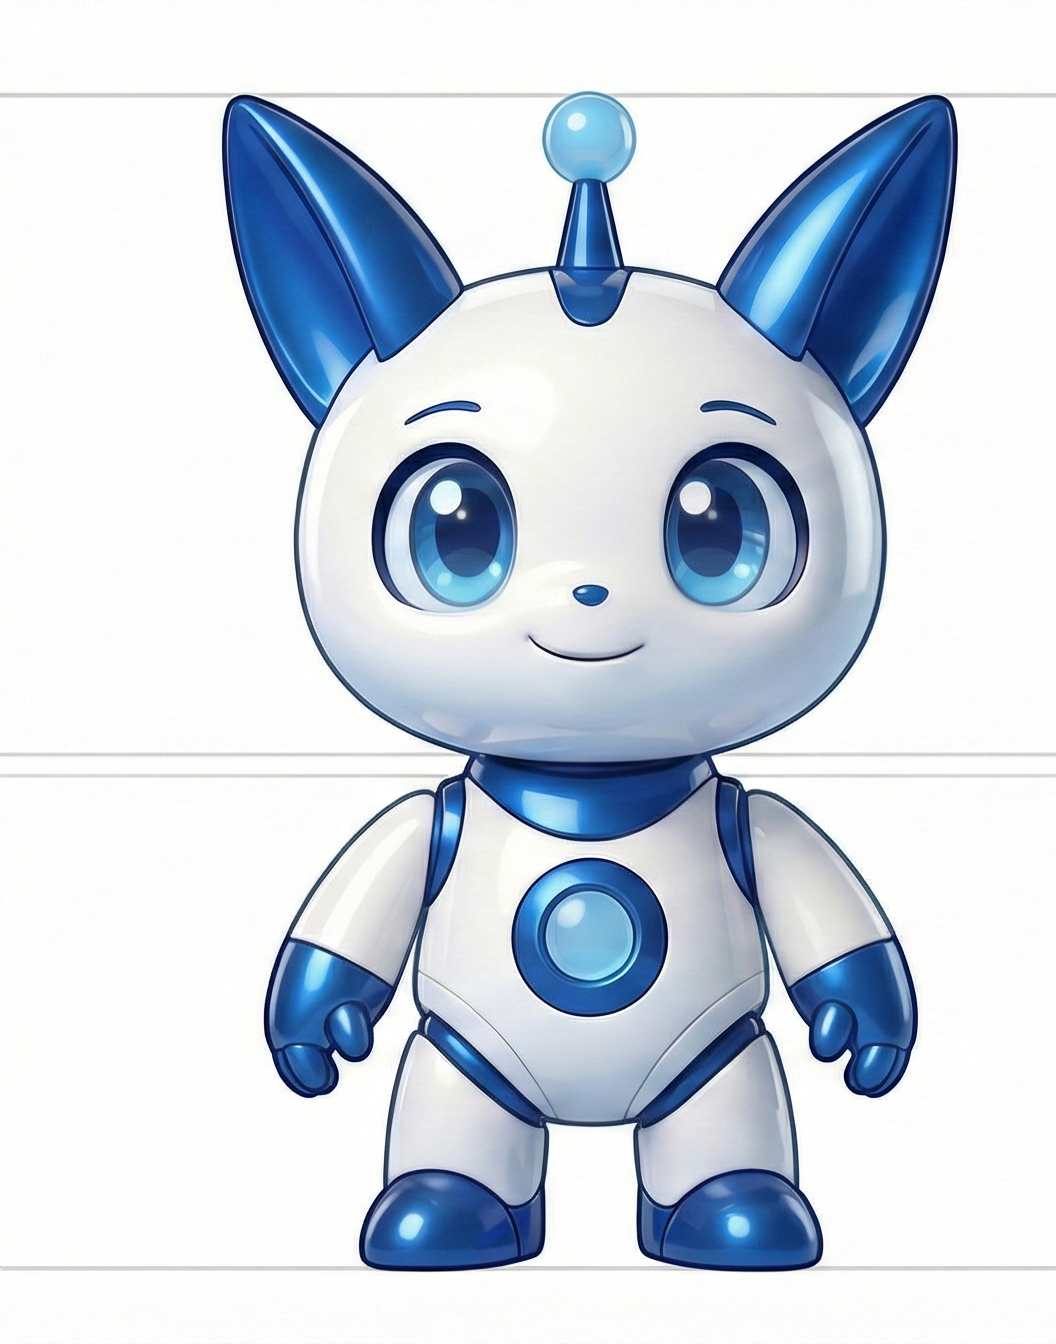
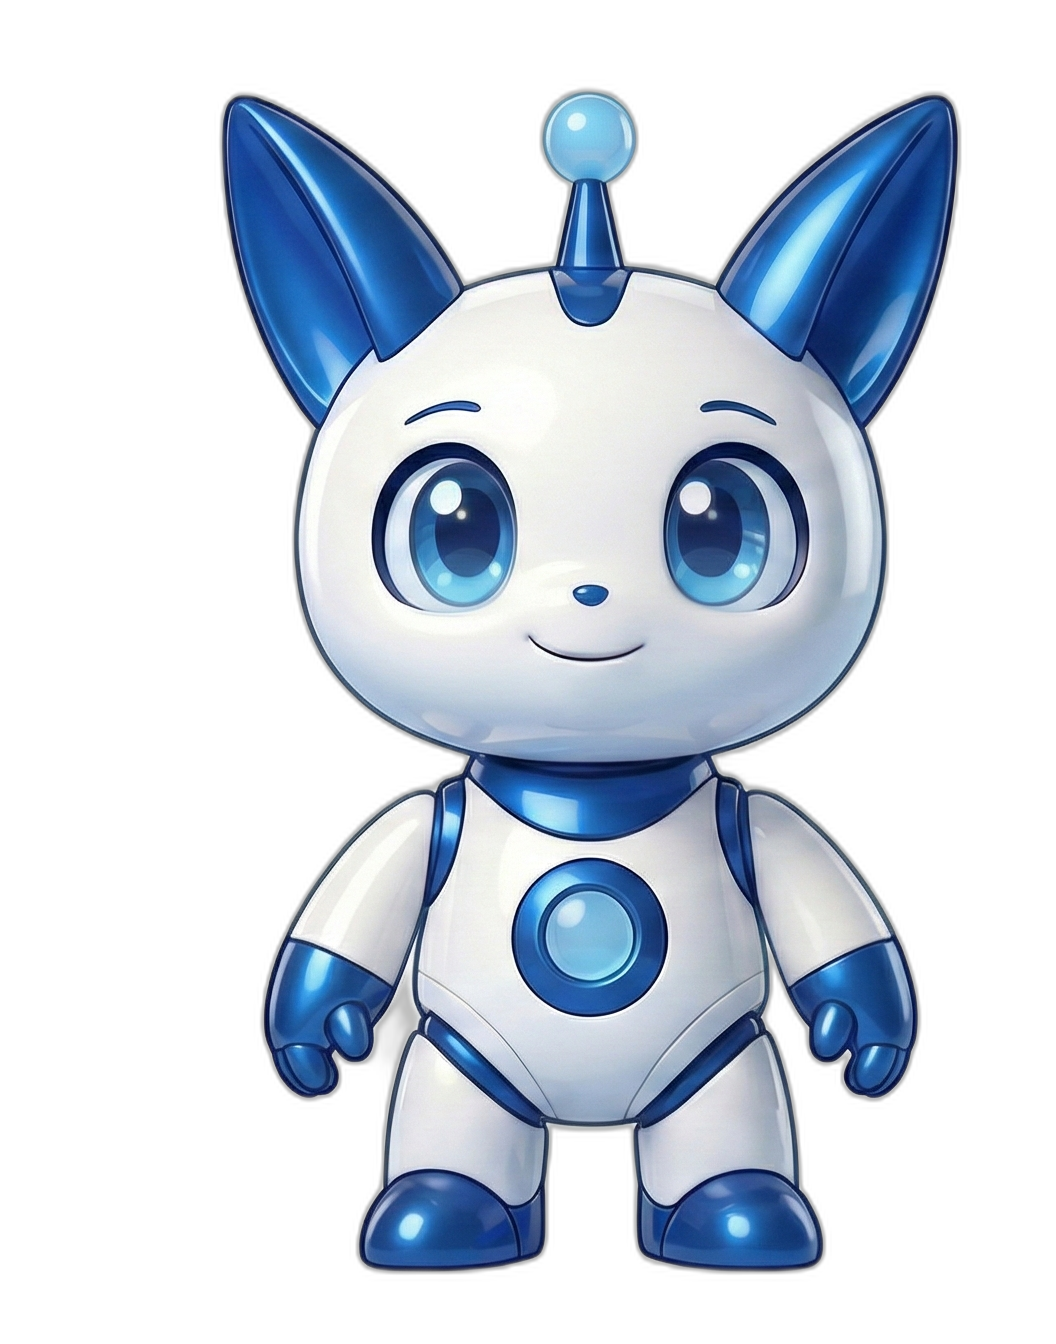
fix: 琥珀キャラ背景透過（rembg）+ 白ラッパー削除 + cyan glow直接適用

diff --git a/sites/openclaw-lp/index.html b/sites/openclaw-lp/index.html
@@ -207,27 +207,13 @@
       0%,100% { transform: translateY(0); }
       50%      { transform: translateY(-18px); }
     }
-    .hero-kohaku-wrap {
+    .hero-kohaku {
       position: relative;
       z-index: 2;
-      width: 300px;
-      height: 300px;
-      border-radius: 50%;
-      overflow: hidden;
-      background: radial-gradient(circle at 50% 45%, #eef4ff 0%, #ddeaff 100%);
-      box-shadow:
-        0 0 0 2px rgba(0,212,255,0.25),
-        0 0 40px rgba(0,150,255,0.45),
-        0 0 100px rgba(0,100,220,0.2);
-      display: flex;
-      align-items: center;
-      justify-content: center;
+      width: 360px;
+      height: auto;
+      filter: drop-shadow(0 0 32px rgba(0,180,255,0.5)) drop-shadow(0 16px 40px rgba(0,100,220,0.35));
       animation: float 6s ease-in-out infinite;
-    }
-    .hero-kohaku {
-      width: 88%;
-      height: 88%;
-      object-fit: contain;
     }
 
     @media (max-width: 900px) {
@@ -379,11 +365,12 @@
       width: 36px; height: 36px;
       border-radius: 50%;
       overflow: hidden;
-      background: #ddeaff;
+      background: var(--bg-card2);
       border: 1.5px solid var(--cyan);
       flex-shrink: 0;
+      display: flex; align-items: center; justify-content: center;
     }
-    .chat-avatar img { width: 100%; height: 100%; object-fit: contain; }
+    .chat-avatar img { width: 90%; height: 90%; object-fit: contain; }
     .chat-header-name {
       font-size: 14px;
       font-weight: 700;
@@ -420,10 +407,11 @@
     }
     .msg-avatar.kohaku-av {
       overflow: hidden;
-      background: #ddeaff;
+      background: var(--bg-card2);
       border: 1px solid rgba(0,212,255,0.5);
+      display: flex; align-items: center; justify-content: center;
     }
-    .msg-avatar.kohaku-av img { width: 100%; height: 100%; object-fit: contain; }
+    .msg-avatar.kohaku-av img { width: 90%; height: 90%; object-fit: contain; }
     .msg-bubble {
       max-width: 78%;
       padding: 12px 16px;
@@ -702,19 +690,12 @@
                   var(--bg);
       text-align: center;
     }
-    .final-cta-kohaku-wrap {
-      width: 140px; height: 140px;
-      border-radius: 50%;
-      overflow: hidden;
-      background: radial-gradient(circle, #eef4ff 0%, #ddeaff 100%);
-      box-shadow: 0 0 40px rgba(0,150,255,0.45), 0 0 80px rgba(0,100,220,0.2);
-      display: flex; align-items: center; justify-content: center;
-      margin: 0 auto 32px;
-    }
     .final-cta-kohaku {
-      width: 88%;
-      height: 88%;
-      object-fit: contain;
+      width: 160px;
+      height: auto;
+      margin: 0 auto 32px;
+      display: block;
+      filter: drop-shadow(0 0 24px rgba(0,180,255,0.5));
     }
     .final-cta h2 {
       font-size: clamp(36px, 5vw, 60px);
@@ -784,9 +765,7 @@
       </div>
       <div class="hero-visual">
         <div class="hero-glow"></div>
-        <div class="hero-kohaku-wrap">
-          <img src="assets/images/kohaku.png" alt="AI秘書 琥珀" class="hero-kohaku">
-        </div>
+        <img src="assets/images/kohaku.png" alt="AI秘書 琥珀" class="hero-kohaku">
       </div>
     </div>
   </section>
@@ -1116,9 +1095,7 @@
   <!-- FINAL CTA -->
   <section class="final-cta">
     <div class="container-narrow">
-      <div class="final-cta-kohaku-wrap">
-        <img src="assets/images/kohaku.png" alt="琥珀" class="final-cta-kohaku">
-      </div>
+      <img src="assets/images/kohaku.png" alt="琥珀" class="final-cta-kohaku">
       <h2><em>琥珀</em>と、<br>始めましょう。</h2>
       <p>通常¥15,000 → <strong style="color:var(--cyan)">¥10,000（¥5,000 OFF）</strong><br>期間限定。今すぐ申し込む。</p>
       <a href="https://discord.gg/CDZtp8J7" target="_blank" rel="noopener" class="btn-discord" style="font-size:18px;padding:20px 56px;">
